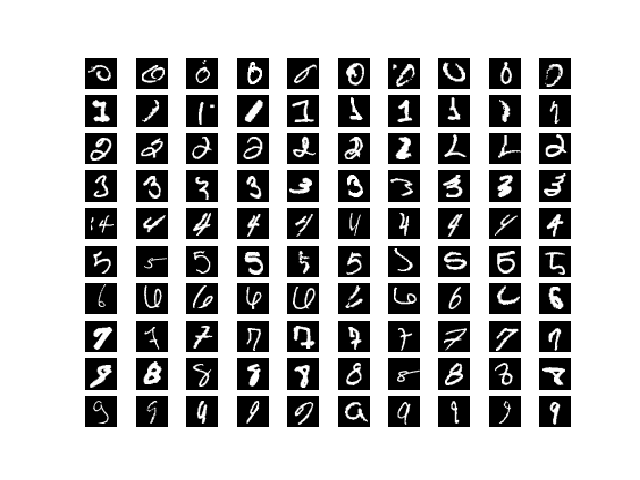
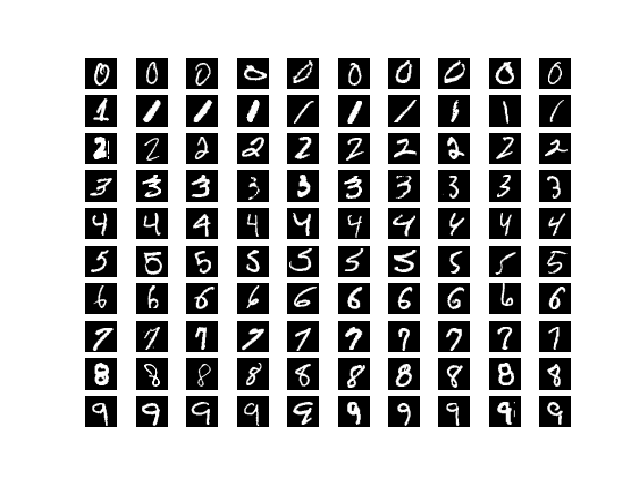
refactoring

diff --git a/vis_combined.py b/vis_combined.py
@@ -14,7 +14,7 @@ datasets.MNIST('data', train=False,
   transforms.ToTensor(),
   transforms.Normalize((0.1307,), (0.3081,))
 ])),
-batch_size=256, shuffle=True)
+batch_size=1024, shuffle=False)
 
 images = []
 ps = []
@@ -32,78 +32,91 @@ for data, target in tqdm(test_loader):
 	ps.extend(p.view(-1, 10).detach().numpy())
 	classes.extend(target.view(-1).detach().numpy())
 
-uncertainties = [entropy(p) for p in ps]
+epistemic = np.array([entropy(p) for p in ps])
+epistemic = (epistemic - np.min(epistemic))/np.ptp(epistemic)
+
+aleatoric = []
+net.eval()
+for data, target in tqdm(test_loader):
+	mu, log_sigma2 = net(data.view(len(data), -1))
+	#images.extend(data.numpy())
+	
+	aleatoric.extend(log_sigma2.view(-1).detach().numpy())
+	#classes.extend(target.view(-1).detach().numpy())
+aleatoric = np.array(aleatoric)
+aleatoric = (aleatoric - np.min(aleatoric))/np.ptp(aleatoric)
+#uncertainties = [entropy(p) for p in ps]
 classes = np.array(classes)
-all_uncertainties = np.array(uncertainties)
+#all_uncertainties = np.array(uncertainties)
 all_images = np.array(images)
 
 
 
-plt.figure()
-for t in range(10):
-	uncertainties = all_uncertainties[classes == t]
-	images = all_images[classes==t]
-	indices = np.argsort(uncertainties)[:10]
-	for i, index in enumerate(indices):
-		plt.subplot(10,10,t*10+i+1)
-		plt.imshow(images[index].reshape(28,28), cmap='gray')
-		plt.axis('off')
-		print (uncertainties[index])
-
-plt.savefig('high_combined_epistemic.png')
-
 
 plt.figure()
 for t in range(10):
-	uncertainties = all_uncertainties[classes == t]
+	#uncertainties = epistemic[classes == t] - aleatoric[classes == t]
 	images = all_images[classes==t]
-	indices = np.argsort(uncertainties)[::-1][:10]
-	for i, index in enumerate(indices):
-		plt.subplot(10,10,t*10+i+1)
-		plt.imshow(images[index].reshape(28,28), cmap='gray')
-		plt.axis('off')
-		print (uncertainties[index])
+	indices = np.argsort((epistemic[classes == t] - aleatoric[classes == t])**2)[::-1]
+	
+	i = 0
+	for index in indices:
+		if epistemic[index] > aleatoric[index] >  np.percentile(aleatoric, 75) :
+			i+=1
+			
+			plt.subplot(10,10,t*10+i)
+			plt.imshow(images[index].reshape(28,28), cmap='gray')
+			plt.axis('off')
+			#print (uncertainties[index])
+			
+			if i == 10:
+				break
+
+plt.savefig('low_combined_aleatoric.png')
+
+
+
+
+
+plt.figure()
+for t in range(10):
+	#uncertainties = epistemic[classes == t] - aleatoric[classes == t]
+	images = all_images[classes==t]
+	indices = np.argsort((epistemic[classes == t] - aleatoric[classes == t])**2)[::-1]
+	
+	i = 0
+	for index in indices:
+		if  aleatoric[index] > epistemic[index] > np.percentile(epistemic, 75):
+			i+=1
+			
+			plt.subplot(10,10,t*10+i)
+			plt.imshow(images[index].reshape(28,28), cmap='gray')
+			plt.axis('off')
+			#print (uncertainties[index])
+			
+			if i == 10:
+				break
 
 plt.savefig('low_combined_epistemic.png')
 
 
-
-images = []
-uncertainties = []
-classes =[]
-net.eval()
-for data, target in tqdm(test_loader):
-	mu, log_sigma2 = net(data.view(len(data), -1))
-	images.extend(data.numpy())
+plt.figure()
+for t in range(10):
+	#uncertainties = epistemic[classes == t] - aleatoric[classes == t]
+	images = all_images[classes==t]
+	indices = np.argsort((epistemic[classes == t] - aleatoric[classes == t])**2)
 	
-	uncertainties.extend(log_sigma2.view(-1).detach().numpy())
-	classes.extend(target.view(-1).detach().numpy())
+	i = 0
+	for index in indices:
+		if epistemic[index] < np.percentile(epistemic, 25):
+			i+=1
+			
+			plt.subplot(10,10,t*10+i)
+			plt.imshow(images[index].reshape(28,28), cmap='gray')
+			plt.axis('off')
+			#print (uncertainties[index])
+			
+			if i == 10:
+				break
 
-classes = np.array(classes)
-all_uncertainties = np.array(uncertainties)
-all_images = np.array(images)
-plt.figure()
-for t in range(10):
-	uncertainties = all_uncertainties[classes == t]
-	images = all_images[classes==t]
-	indices = np.argsort(uncertainties)[:10]
-	for i, index in enumerate(indices):
-		plt.subplot(10,10,t*10+i+1)
-		plt.imshow(images[index].reshape(28,28), cmap='gray')
-		plt.axis('off')
-		print (uncertainties[index])
-plt.savefig('high_combined_aleatoric.png')
-
-plt.figure()
-for t in range(10):
-	uncertainties = all_uncertainties[classes == t]
-	images = all_images[classes==t]
-	indices = np.argsort(uncertainties)[::-1][:10]
-	for i, index in enumerate(indices):
-		plt.subplot(10,10,t*10+i+1)
-		plt.imshow(images[index].reshape(28,28), cmap='gray')
-		plt.axis('off')
-		print (uncertainties[index])
-
-
-plt.savefig('low_combined_aleatoric.png')
+plt.savefig('high_combined.png')

diff --git a/neural_net.py b/neural_net.py
@@ -1,0 +1,72 @@
+import torch
+from torch import nn
+from torch.distributions.multivariate_normal import MultivariateNormal
+import torch.nn.functional as F
+import numpy as np
+from tqdm import tqdm
+
+def init_weights(m):
+  if type(m) == nn.Linear:
+      torch.nn.init.xavier_uniform_(m.weight)
+      m.bias.data.fill_(0.01)
+
+def FFLayer(input_size, output_size):
+  return nn.Sequential(*[
+    nn.Linear(input_size, output_size),
+    nn.ReLU()
+  ])
+
+def FFLayers(input_size, output_size, hidden_size, hidden_count):
+  return nn.Sequential(*[
+    FFLayer(input_size, hidden_size),
+    *[FFLayer(hidden_size, hidden_size) for i in range(hidden_count)],
+    nn.Linear(hidden_size, output_size)
+  ])
+
+
+class FFDropoutLayer(torch.nn.Module):
+
+  def __init__(self, input_size, output_size, dropout_p=.2):
+    super(FFDropoutLayer,self).__init__()
+    self.linear = nn.Linear(input_size, output_size)
+    self.dropout_p = dropout_p
+  
+  def forward(self, x):
+    x = self.linear(x)
+    x = F.dropout(x, p=self.dropout_p, training=self.training)
+    return F.relu(x)
+    
+
+def FFDropoutLayers(input_size, output_size, hidden_size, hidden_count, dropout_p=.2):
+  return nn.Sequential(*[
+    FFDropoutLayer(input_size, hidden_size),
+    *[FFDropoutLayer(hidden_size, hidden_size) for i in range(hidden_count)],
+    nn.Linear(hidden_size, output_size)
+  ])
+
+
+def train(train_loader, net, criterion, optimizer, scheduler):
+  train_losses = []
+  for data, target in tqdm(train_loader):
+    data, target = data.view(len(data), -1).float(), target
+    optimizer.zero_grad()
+    output = net(data)
+    loss = criterion(output, target)
+    train_losses.append(loss.item())
+    loss.backward()
+    optimizer.step()
+  return train_losses
+
+def test(test_loader, predict, net, criterion):
+  scores = []
+  losses = []
+  net.train()
+  for data, target in test_loader:
+    output = predict(data.view(len(data), -1), net)
+    
+    predictions = torch.argmax(output.data, 1)
+    scores.append((predictions == target).float().mean().detach().item())
+    
+    loss = criterion(net(data.view(len(data), -1)), target)
+    losses.append(loss.detach().item())
+  return sum(scores)/len(test_loader), sum(losses)/len(test_loader)

diff --git a/train.py b/train.py
@@ -1,0 +1,58 @@
+import sys
+
+import torch
+from torch import nn
+from torchvision import transforms, datasets
+from torch.optim.lr_scheduler import ExponentialLR
+
+import aleatoric, epistemic, combined, neural_net
+
+train_loader = torch.utils.data.DataLoader(
+datasets.MNIST('data', train=True, download=True,
+  transform=transforms.Compose([
+    transforms.ToTensor(),
+    transforms.Normalize((0.1307,), (0.3081,))
+])),
+batch_size=256, shuffle=True)
+
+test_loader = torch.utils.data.DataLoader(
+datasets.MNIST('data', train=False, 
+  transform=transforms.Compose([
+  transforms.ToTensor(),
+  transforms.Normalize((0.1307,), (0.3081,))
+])),
+batch_size=256, shuffle=True)
+
+kind = sys.argv[1]
+if kind == 'epistemic':
+  model = epistemic
+elif kind == 'aleatoric':
+  model = aleatoric
+elif kind == 'combined':
+  model = combined
+else:
+  print ('kind can be epistemic, aleatoric or combined')
+  exit()
+
+
+net = model.Net(28*28, 10, 1024, 2)
+net.apply(neural_net.init_weights)
+
+criterion = model.Loss()
+
+predict = model.predict
+
+kwargs = dict(lr=1e-4, weight_decay=0.0001) if kind == 'aleatoric' else dict(lr=1e-4)
+optimizer = torch.optim.Adam(net.parameters(), **kwargs)
+
+scheduler = ExponentialLR(optimizer, gamma=0.9999)
+
+net.train()
+for epoch in range(10):
+  train_losses = neural_net.train(train_loader, net, criterion, optimizer, scheduler)  
+  print ('Train loss = %s' % (sum(train_losses) / len(train_losses)) )
+
+  score, loss = neural_net.test(test_loader, predict, net, criterion)
+  print ('Testing: Accuracy = %.2f%%, Loss %.4f' % (score*100, loss))
+
+torch.save(net, '%s.pt' % kind)

diff --git a/aleatoric.py b/aleatoric.py
@@ -1,0 +1,46 @@
+import neural_net
+
+import torch
+from torch import nn
+import torch.nn.functional as F
+from torch.distributions.multivariate_normal import MultivariateNormal
+import numpy as np
+
+def predict(data, net, T=50, class_count=10):
+  mvn = MultivariateNormal(torch.zeros(class_count), torch.eye(class_count))
+  mu, log_sigma2 = net(data)
+  y_hat = torch.zeros_like(mu)
+    
+  for t in range(T):
+    y_hat += F.softmax(mu + torch.exp(log_sigma2)*mvn.sample((len(mu),)), dim=1).detach() / T
+
+  return y_hat / T
+
+
+class Net(nn.Module):
+  def __init__(self, input_size, output_size, hidden_size, hidden_count):
+    super(Net, self).__init__()
+    self.mu = neural_net.FFLayers(input_size, output_size, hidden_size, hidden_count)
+    self.log_sigma2 = neural_net.FFLayers(input_size, 1, hidden_size, hidden_count)
+  
+  def forward(self, x):
+    return self.mu(x), self.log_sigma2(x)
+
+class Loss(torch.nn.Module):
+  def __init__(self, class_count=10, T=25):
+    super(Loss,self).__init__()
+    self.mvn = MultivariateNormal(torch.zeros(class_count), torch.eye(class_count))
+    self.T = T
+    self.class_count = class_count
+
+  def forward(self, output, y):
+    mu, log_sigma2 = output
+    y_hat = []
+    
+    for t in range(self.T):
+      epsilon = self.mvn.sample((len(mu),))
+      numerator = F.log_softmax(mu + torch.exp(log_sigma2)*epsilon, dim=1)
+      y_hat.append( numerator - np.log(self.T))
+
+    y_hat = torch.stack(tuple(y_hat))
+    return F.nll_loss(torch.logsumexp(y_hat, dim=0), y)

diff --git a/combined.py b/combined.py
@@ -1,0 +1,25 @@
+import torch
+from torch import nn
+
+
+import neural_net, aleatoric
+
+
+
+
+class Net(nn.Module):
+  def __init__(self, input_size, output_size, hidden_size, hidden_count):
+    super(Net, self).__init__()
+    self.mu = neural_net.FFDropoutLayers(input_size, output_size, hidden_size, hidden_count)
+    self.log_sigma2 = neural_net.FFDropoutLayers(input_size, 1, hidden_size, hidden_count)
+  
+  def forward(self, x):
+    return self.mu(x), self.log_sigma2(x)
+
+def predict(data, net, T=25, class_count=10):
+  predictions = []
+  for t in range(T):
+    predictions.append(aleatoric.predict(data, net))
+  return sum(predictions)/len(predictions)
+
+Loss = aleatoric.Loss

diff --git a/epistemic.py b/epistemic.py
@@ -1,0 +1,22 @@
+import neural_net
+
+import torch
+from torch import nn
+import torch.nn.functional as F
+
+def predict(data, net, T=25, class_count=10):
+  predictions = []
+  for t in range(T):
+    predictions.append(F.softmax(net(data), dim=1))
+  return sum(predictions)/len(predictions)
+
+
+class Net(nn.Module):
+  def __init__(self, input_size, output_size, hidden_size, hidden_count):
+    super(Net, self).__init__()
+    self.backbone = neural_net.FFDropoutLayers(input_size, output_size, hidden_size, hidden_count)
+    
+  def forward(self, x):
+    return self.backbone(x)
+
+Loss = nn.CrossEntropyLoss

diff --git a/vis.py b/vis.py
@@ -1,0 +1,7 @@
+import matplotlib.pyplot as plt
+
+def show_digits(images, w, h):
+  for i, image in enumerate(images):
+    plt.subplot(w, h, i+1)
+    plt.imshow(image.reshape(28,28), cmap='gray')
+    plt.axis('off')
